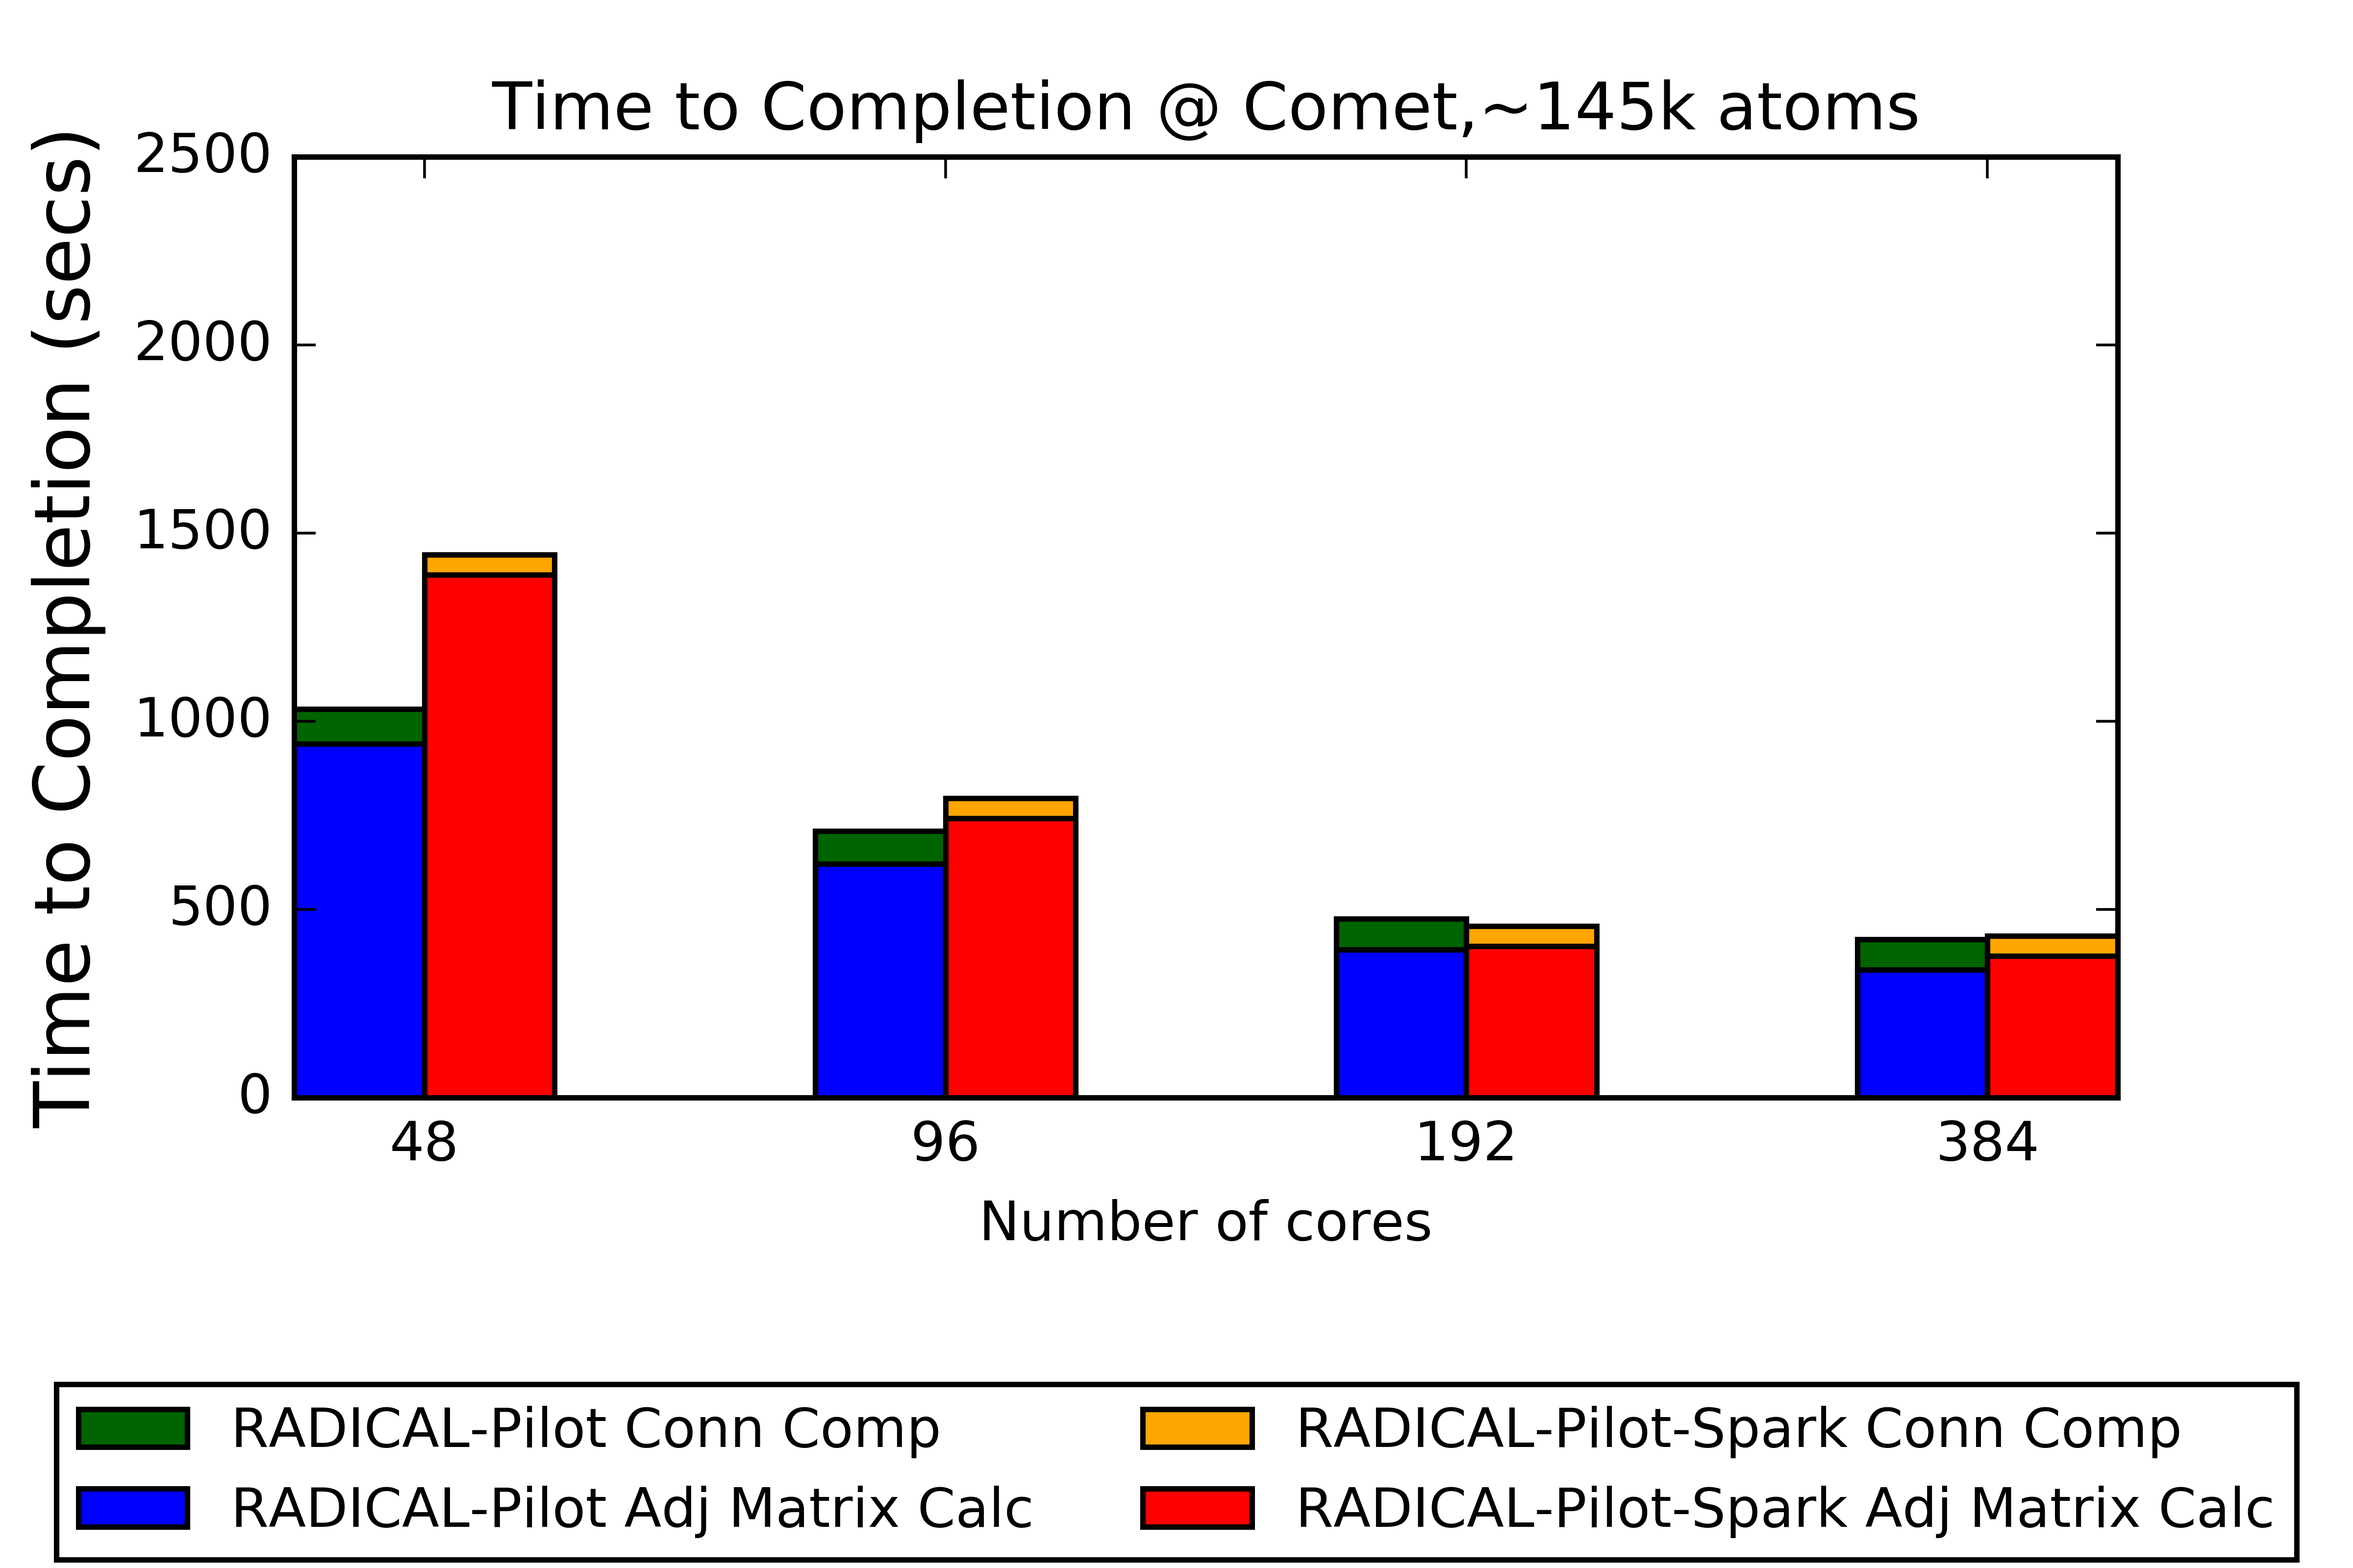
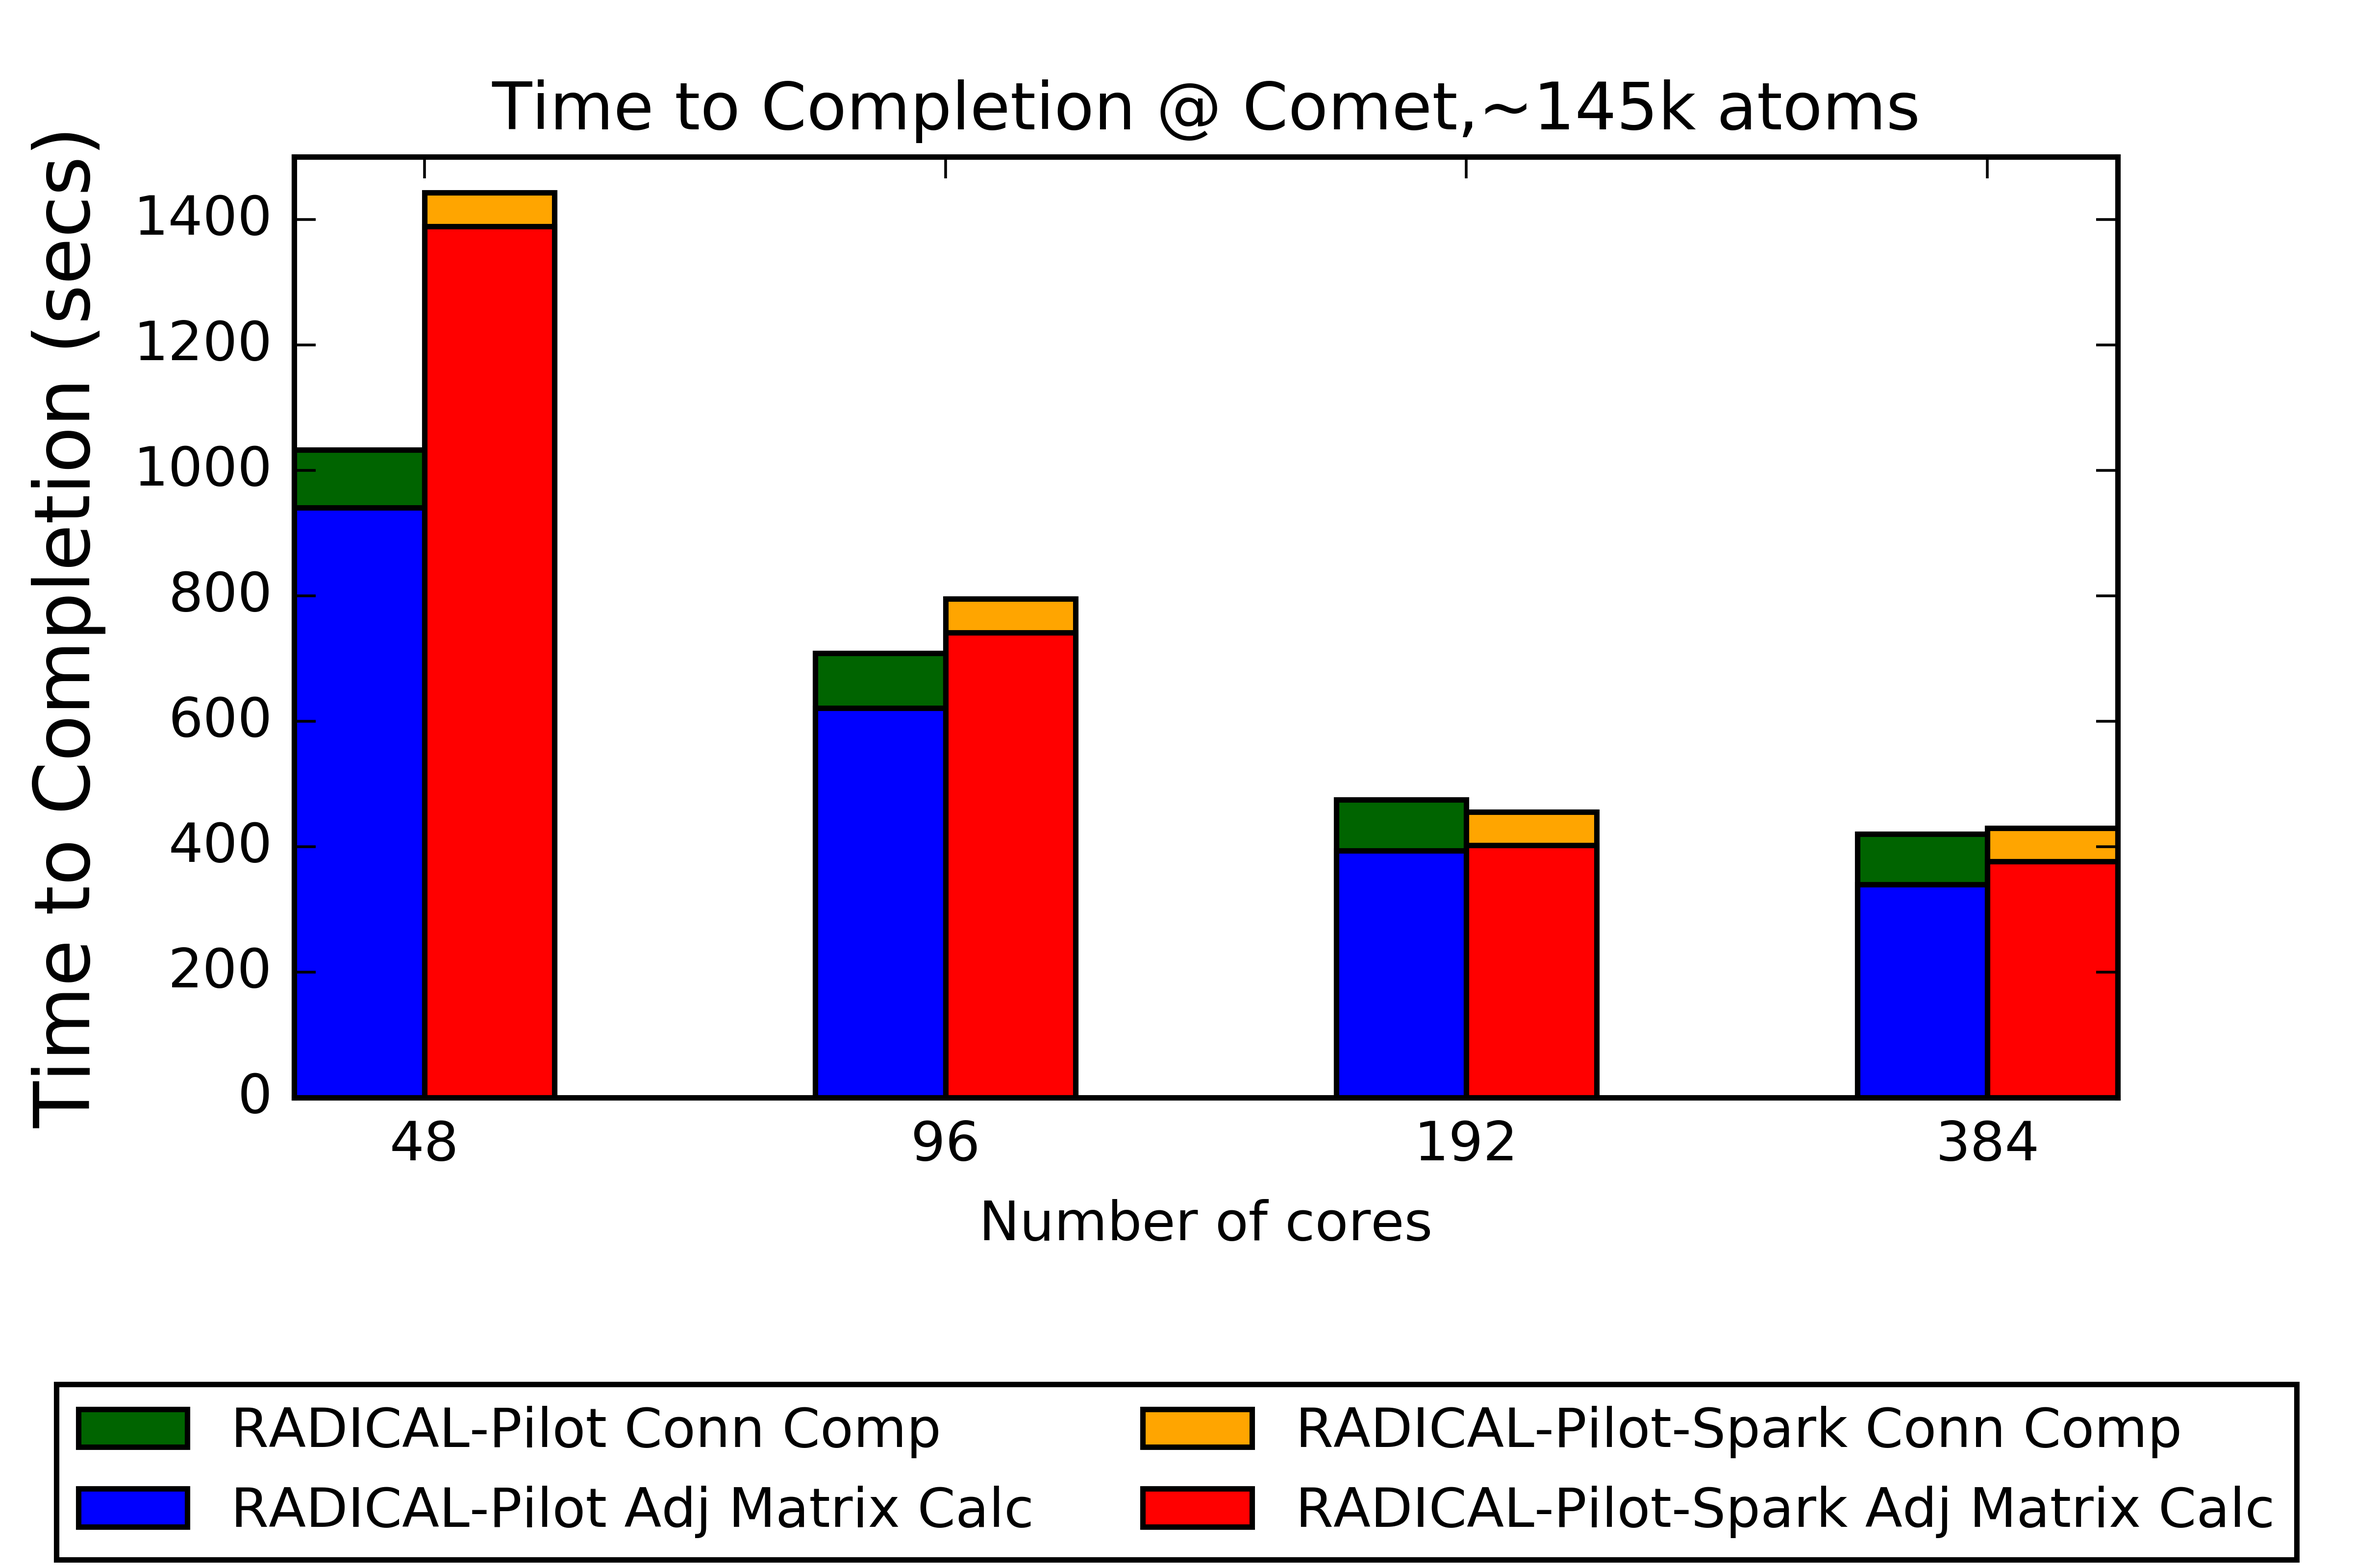
Latest data on comet

diff --git a/leaflet-finder/Spark/README.md b/leaflet-finder/Spark/README.md
@@ -5,3 +5,9 @@ Each entry should contain an explanation for each csv file.
       RADICAL-Pilot Version:v0.40.1-38-ga1e892c@feature-spark
       RADICAL-Utils Version:v0.40
       SAGA-python Version: v0.40.2
+
+- report_comet_6_9_2016_ratio21.csv:
+      Experiments executed on Comet with RP-Spark for leaflet finder. The system has 145K phosphate atoms. For the execution the ratio of the partitions over the cores was 2 to 1. 48, 96 192 and 384 cores were used.
+      RADICAL-Pilot Version:v0.40.1-38-ga1e892c@feature-spark
+      RADICAL-Utils Version:v0.40
+      SAGA-python Version: v0.40.2
